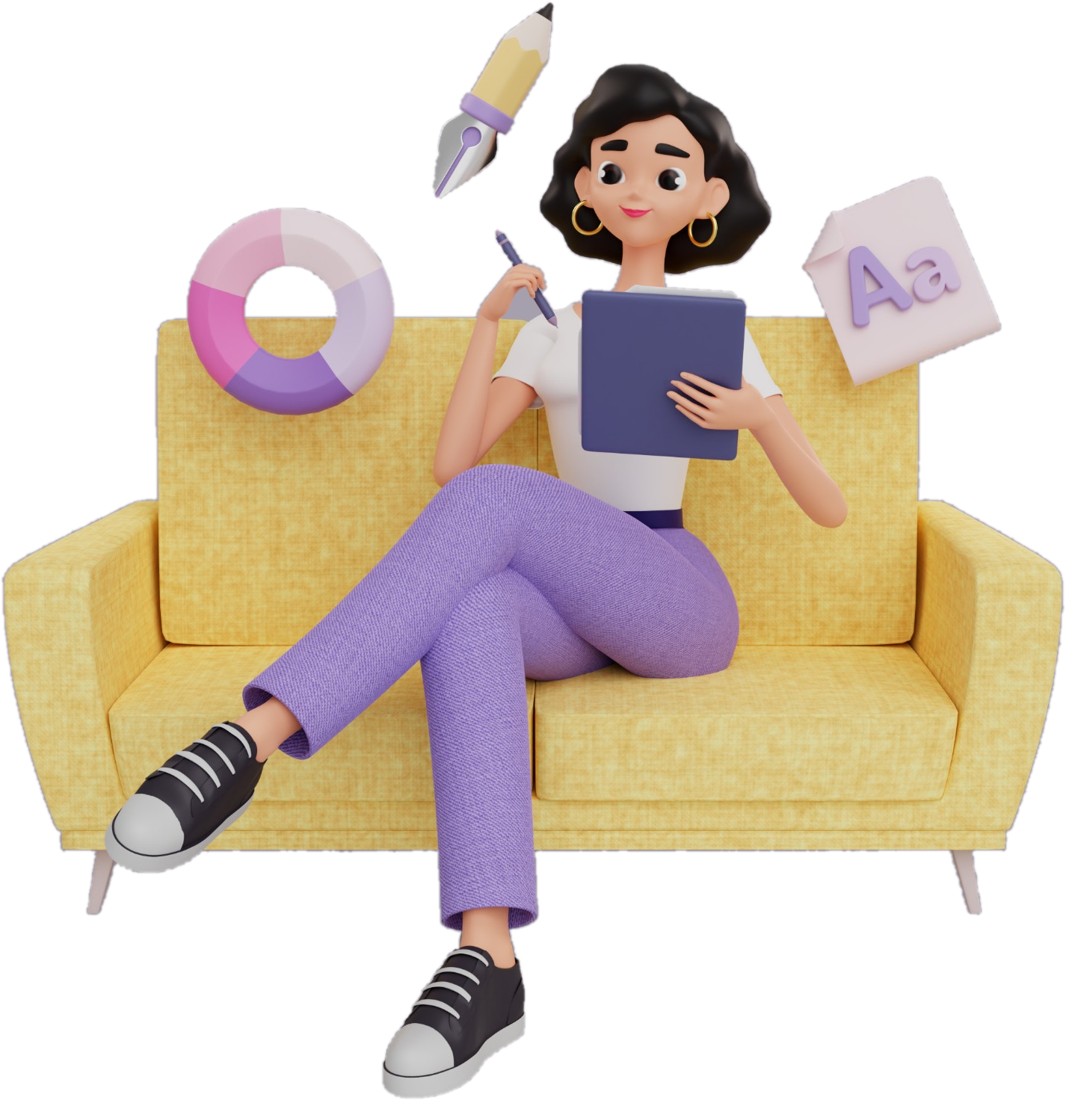
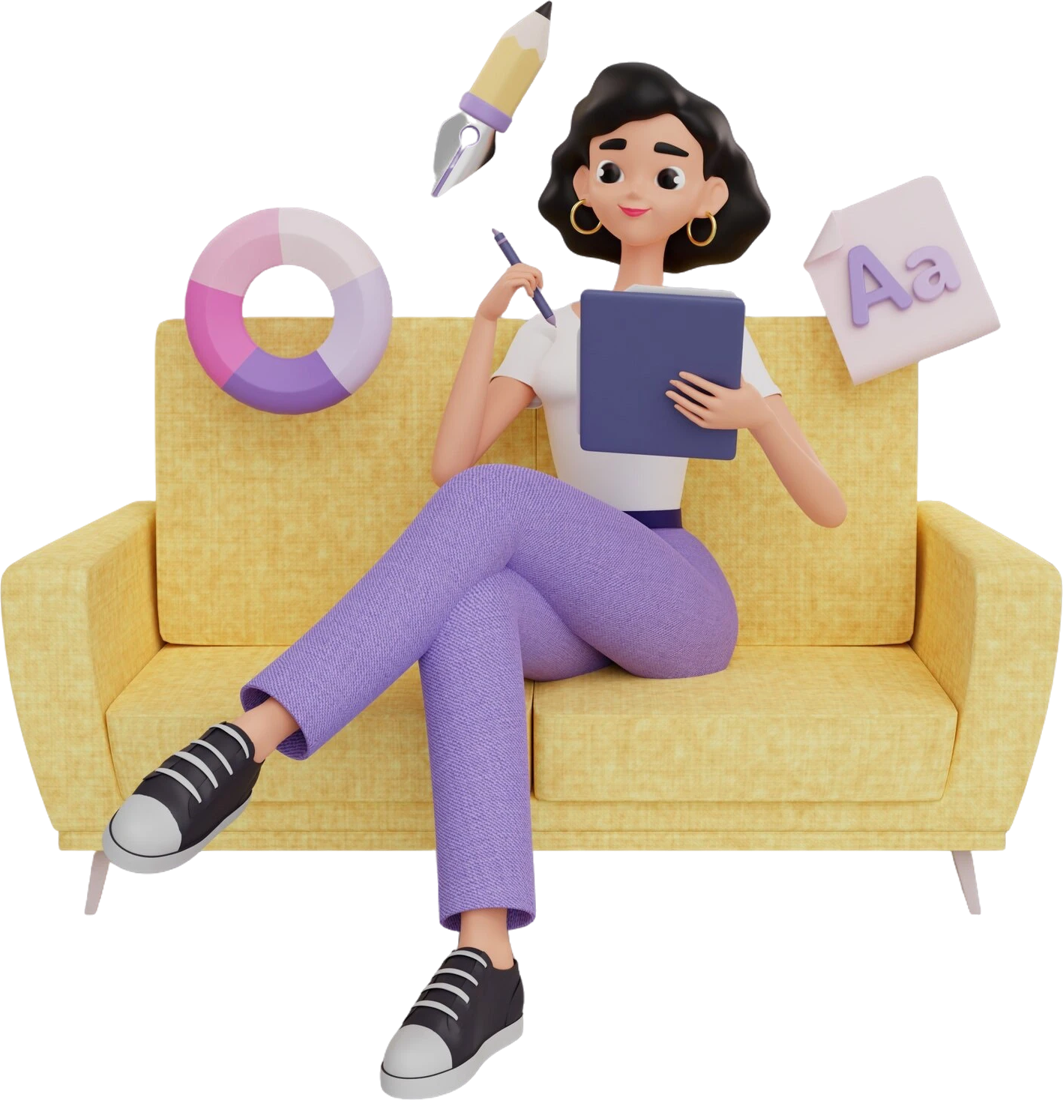
fix(hero): karakter PNG transparan dari klien, kartu mobile tidak terpotong, ganti kartu tim dengan Konsultasi Gratis

diff --git a/resources/css/app.css b/resources/css/app.css
@@ -330,10 +330,10 @@
 .hero-char__obj--bulb { left: 2%; bottom: 14%; transform: translateZ(140px) rotate(10deg); animation: card-float 5.5s ease-in-out 1s infinite; }
 .hero-char__obj--code { left: 2%; top: 6%; width: 50px; height: 50px; border-radius: 15px; transform: translateZ(160px) rotate(8deg); animation: card-float 6s ease-in-out .5s infinite; }
 .hero-char__sphere { width: 8%; aspect-ratio: 1; right: 6%; top: 44%; transform: translateZ(80px); animation: sphere-float 7s ease-in-out infinite; }
-.hero-char__card--team { position: absolute; left: 0; top: 64%; flex-direction: column; align-items: flex-start; gap: 0; transform: translateZ(150px) rotate(-3deg); animation: card-float 5.5s ease-in-out .3s infinite; }
+.hero-char__card--team { left: 0; top: 64%; transform: translateZ(150px) rotate(-2deg); animation: card-float 5.5s ease-in-out .3s infinite; }
 .hero-char__card--support { right: 0; top: 2%; transform: translateZ(120px); animation: card-float 5s ease-in-out .9s infinite; }
 .hero-char__card--stat { right: 2%; bottom: 8%; transform: translateZ(130px); animation: card-float 6s ease-in-out 1.4s infinite; }
-@media (width < 40rem) { .hero-char__obj { width: 46px; height: 46px; border-radius: 14px; } .hero-char__card--stat { display: none; } .hero-char__card--support { top: 0; } .hero-char__card--team { top: auto; bottom: 0; } }
+@media (width < 40rem) { .hero-char__obj { width: 46px; height: 46px; border-radius: 14px; } .hero-char__card--stat { display: none; } .hero-char__card--support { top: 0; right: 0; } .hero-char__card--team { top: auto; bottom: 4%; left: 0; } .hero-char .hero-scene__card { padding: 8px 10px; gap: 8px; border-radius: 12px; } .hero-char .hero-scene__card .size-9 { width: 30px; height: 30px; } .hero-char__img { width: 86%; bottom: 13%; } .hero-char { aspect-ratio: 1 / 1.22; } .hero-char__card--support { top: 1%; } .hero-char__card--team { bottom: 1%; } .hero-char__obj--code { top: 5%; } .hero-char__ring { top: 46%; } .hero-char__card--support, .hero-char__card--team, .hero-char__obj, .hero-char__sphere { transform: none; } .hero-char__img { transform: translateX(-50%); } }
 
 /* Logo marquee (Partner & Klien) — lihat components/logo-marquee.blade.php */
 @keyframes marquee { from { transform: translateX(0); } to { transform: translateX(-50%); } }

diff --git a/resources/views/components/hero-character.blade.php b/resources/views/components/hero-character.blade.php
@@ -16,15 +16,13 @@
         <span class="hero-char__obj hero-char__obj--code bg-gradient-to-br from-[#5b86e0] to-[#2155cd]"><x-heroicon-o-code-bracket class="size-6" /></span>
         <span class="hero-scene__sphere hero-char__sphere"></span>
 
-        {{-- kartu: tim --}}
+        {{-- kartu: konsultasi --}}
         <div class="hero-scene__card hero-char__card--team">
-            <p class="text-[13px] font-semibold leading-tight text-brand-dark">Tim berpengalaman<br>siap membantu Anda.</p>
-            <div class="mt-2 flex items-center">
-                @foreach (['from-[#2155cd] to-[#12306f]', 'from-[#f59e0b] to-[#d97706]', 'from-[#22c55e] to-[#15803d]', 'from-[#a855f7] to-[#7c3aed]'] as $i => $g)
-                    <span class="-ml-1.5 grid size-7 place-items-center rounded-full border-2 border-white bg-gradient-to-br {{ $g }} text-[10px] font-semibold text-white first:ml-0">{{ ['MH', 'AR', 'DS', 'KP'][$i] }}</span>
-                @endforeach
-                <span class="-ml-1.5 grid size-7 place-items-center rounded-full border-2 border-white bg-brand-normal text-white"><x-heroicon-s-plus class="size-3.5" /></span>
-            </div>
+            <span class="grid size-9 place-items-center rounded-xl bg-gradient-to-br from-[#22c55e] to-[#15803d] text-white"><x-heroicon-o-chat-bubble-left-right class="size-5" /></span>
+            <span>
+                <span class="block text-[12px] font-semibold text-brand-dark">Konsultasi Gratis</span>
+                <span class="block text-[10px] text-brand-muted">Respons &lt; 24 jam kerja</span>
+            </span>
         </div>
 
         {{-- kartu: dukungan --}}
